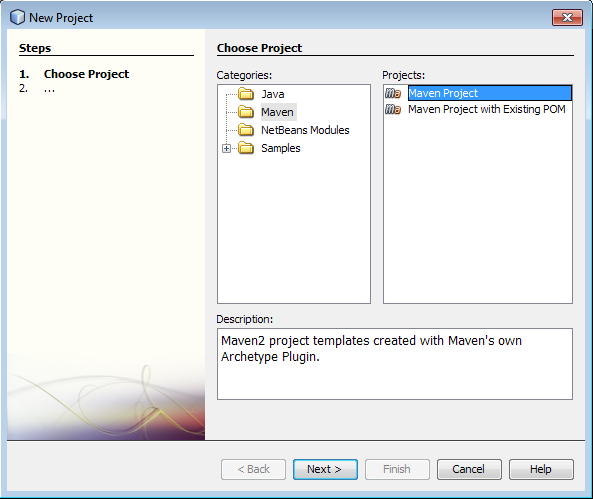
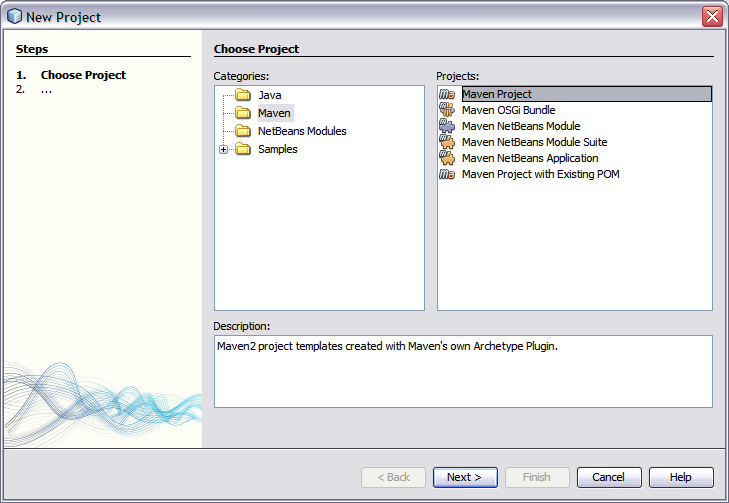
updated netbeans screensnaps
git-svn-id: http://svn.osgeo.org/geotools/trunk@35840 e5c1c795-43da-0310-a71f-fac65c449510

Changed region(s): [[0.0, 0.0, 1.0, 1.0]]

diff --git a/docs/tutorial/quickstart/netbeans.rst b/docs/tutorial/quickstart/netbeans.rst
@@ -92,6 +92,9 @@ The NetBeans IDE is a popular choice for Java development and features excellent
 #. Click through the steps of the installer. You will notice it will pick up on the JDK you
    installed earlier.
 
+   .. image:: images/netbeansInstall.png
+      :scale: 60
+   
 Quickstart
 ==========
 
@@ -116,23 +119,29 @@ Creating the Project
 --------------------
 
 Let's get started:
-#. Start with File > New Project to open the New Project wizard
-#. Select the Maven category; choose Maven Project and press Next.
+
+1. Start with :menuselection:`File --> New Project` to open the **New Project** wizard
+2. Select the Maven category; choose Maven Project and press **Next**.
 
    .. image:: images/nbNewProject.png
-
-#. On the Maven Archetype page select “Maven Quickstart Archetype” and press Next.
+      :scale: 60
+      
+3. On the Maven Archetype page select “Maven Quickstart Archetype” and press Next.
 
    .. image:: images/nbNewProjectArchetype.png
-   
-#. We can now fill in the blanks
+      :scale: 60
+
+4. We can now fill in the blanks
 
    * Project name: tutorial
    * GroupId: org.geotools
 
-#. Click on the Finish button and the new project will be created.
+   .. image:: images/nbNameAndLocation.png
+      :Scale: 60
 
-#. If this is your first time using Maven with NetBeans it will want to confirm that it is okay to
+5. Click on the Finish button and the new project will be created.
+
+6. If this is your first time using Maven with NetBeans it will want to confirm that it is okay to
    use the copy of Maven included with NetBeans (it is also possible to use an external Maven
    executable from within Netbeans which is convenient if, for instance, you want to work with the
    same version of Maven within the IDE and from the command line).
@@ -142,17 +151,13 @@ Adding Jars to Your Project
 
 .. sidebar:: Lab
 
-   We are going to cheat in order to save time; the local maven repository has already been
-   populated with the latest copy of geotools allowing us to run in "offline" mode.
-   
-   To turn on offline mode:
+   Your local maven repository has already been
+   populated with geotools allowing the use of "offline" mode.
    
    #. Open :menuselection:`Windows --> Preferences`
    #. Select :guilabel:`Maven` preference page
    #. Ensure :guilabel:`offline` is checked
-    
-   This setting is useful when wanting to work quickly once everything is downloaded.
-    
+
 The *pom.xml* file is used to describe the care and feeding of your maven project; we are going to
 focus on the dependencies needed for your project 
 
@@ -169,23 +174,23 @@ When downloading jars maven makes use of a "local repository" to store jars.
 When downloading jars maven makes use of public maven repositories on the internet where projects
 such as GeoTools publish their work.
 
-#. The next step is for us to make it a GeoTools project by adding information to Maven's project
+1. The next step is for us to make it a GeoTools project by adding information to Maven's project
    description file (“project object model” in Maven-speak) - pom.xml
    
    In the Projects panel open up the Project Files folder and double click on pom.xml to open it.
    
-#. We are going to start by defining the version number of GeoTools we wish to use. 
+2. We are going to start by defining the version number of GeoTools we wish to use. 
 
    .. literalinclude:: artifacts/pom.xml
         :language: xml
         :start-after: <url>http://maven.apache.org</url>
         :end-before: <dependencies>
   
-  If you make any mistakes when editing the xml file you'll see that your project will be renamed
-  “<Badley formed Maven project>” in the Projects window. You can choose “Format” as a quick way to
-  check if the tags line up. Or just hit undo and try again. 
+   If you make any mistakes when editing the xml file you'll see that your project will be renamed
+   “<Badley formed Maven project>” in the Projects window. You can choose “Format” as a quick way to
+   check if the tags line up. Or just hit undo and try again. 
   
-#. Next we add two GeoTools modules to the dependencies section: gt-shapefile and gt-swing for our
+3. Next we add two GeoTools modules to the dependencies section: gt-shapefile and gt-swing for our
    project.
 
    .. literalinclude:: artifacts/pom.xml
@@ -193,20 +198,20 @@ such as GeoTools publish their work.
         :start-after: </properties>
         :end-before: <repositories>
   
-#. And the repositories where these jars can be downloaded from.
+4. And the repositories where these jars can be downloaded from.
 
    .. literalinclude:: artifacts/pom.xml
         :language: xml
         :start-after: </dependencies>
         :end-before: </project>
     
-#. You can now right click on Libraries in the Projects window, then Download missing Dependencies
+5. You can now right click on Libraries in the Projects window, then Download missing Dependencies
    from the pop-up menu. When downloading it will check the repositories we have listed
    above.
 
-#. We will continue to add dependencies on different parts of the GeoTools library as we work through these exercises; this fine grain control and the ability to download exactly what is needed is one of the advantages of using Maven.
+6. We will continue to add dependencies on different parts of the GeoTools library as we work through these exercises; this fine grain control and the ability to download exactly what is needed is one of the advantages of using Maven.
 
-#. Here is what the completed :file:`pom.xml` looks like:
+7. Here is what the completed :file:`pom.xml` looks like:
 
    .. literalinclude:: artifacts/pom.xml
         :language: xml
@@ -229,21 +234,31 @@ Now that your environment is setup we can put together a simple Quickstart. This
 
 #. Build the application and check that all is well in the Output window.
 
+   .. image:: images/nbQuickstart.png
+      :Scale: 60
+   
+   A fair bit of time will be spent downloading the libraries required.
+
+Running the Application
+------------------------
+
 #. We need to download some sample data to work with. The http://www.naturalearthdata.com/ project
    is a great project supported by the North American Cartographic Information Society.
    
-   * http://www.naturalearthdata.com/http//www.naturalearthdata.com/download/110m/cultural/110m-cultural.zip 
+   * `110m-cultural.zip <http//www.naturalearthdata.com/download/110m/cultural/110m-cultural.zip>`_ 
    
    Please unzip the above data into a location you can find easily such as the desktop.
 
 #. Run the application to open a file chooser. Choose a shapefile from the example dataset.
 
    .. image:: images/QuickstartOpen.jpg
-   
+      :scale: 60
+      
 #. The application will connect to your shapefile, 1.produce a map context and display the shapefile.
 
    .. image:: images/QuickstartMap.jpg
-   
+      :scale: 60
+      
 #. A couple of things to note about the code example:
    
    * The shapefile is not loaded into memory – instead it is read from disk each and every time it is needed
@@ -275,17 +290,16 @@ Here are some additional challenges for you to try:
   
   If you would like to ask GeoTools to cache the shapefile in memory try the following code:
 
-    .. literalinclude:: ../../src/main/java/org/geotools/tutorial/quickstart/QuickstartCache.java
+  .. literalinclude:: ../../src/main/java/org/geotools/tutorial/quickstart/QuickstartCache.java
      :language: java
      :start-after: // docs start cache
      :end-before:  // docs end cache
   
-  * For the above example to compile you will need the following import:
+  For the above example to compile you will need the following import:
     
-    .. code-block:: java
+  .. code-block:: java
 
        import org.geotools.data.CachingFeatureSource;
-  
   
 * Try and sort out what all the different “side car” files are – and what they are for. The sample
   data set includes “shp”, “dbf” and “shx”. How many other side car files are there?
@@ -296,7 +310,7 @@ Here are some additional challenges for you to try:
   things is with a map of connection parameters. This techniques gives us a little more control over
   how we work with a shapefile and also allows us to connect to databases and web feature servers.
 
-    .. literalinclude:: ../../src/main/java/org/geotools/tutorial/quickstart/QuickstartNotes.java
+  .. literalinclude:: ../../src/main/java/org/geotools/tutorial/quickstart/QuickstartNotes.java
      :language: java
      :start-after: // start datastore
      :end-before:  // end datastore
@@ -307,25 +321,23 @@ Here are some additional challenges for you to try:
   
   At the time of writing |version|-SNAPSHOT under active development.
   
-  .. codeblock: java
-  
-   .. literalinclude:: artifacts/pom2.xml
-        :language: xml
-        :start-after: <url>http://maven.apache.org</url>
-        :end-before: <dependencies>
+  .. literalinclude:: artifacts/pom2.xml
+     :language: xml
+     :start-after: <url>http://maven.apache.org</url>
+     :end-before: <dependencies>
     
   You will also need to change your pom.xml file to include the following snapshot repository:
   
-     .. literalinclude:: artifacts/pom2.xml
-        :language: xml
-        :start-after: </dependencies>
-        :end-before: </project>
+  .. literalinclude:: artifacts/pom2.xml
+     :language: xml
+     :start-after: </dependencies>
+     :end-before: </project>
         
 * NetBeans has an interesting feature to show how the dependency system works - Right click on
   Libraries and choose Show Dependency
   
-     .. image:: images/nbGraph.png
-  
+  .. image:: images/nbGraph.png
+   
   We will be making use of some of the project is greater depth in the remaining tutorials.
 
 Maven Alternative
@@ -336,10 +348,11 @@ To start with we will obtain GeoTools from the website:
 
 1. Download the GeoTools binary release from http://sourceforge.net/projects/geotools/files 
 2. Extract the geotools-2.6.0-bin.zip file to C:\java\geotools-2.6.0 folder.
-3. If you open up the folder and have a look you will see GeoTools and all of the other jars that it uses including those from other libraries such as GeoAPI and JTS.
+3. If you open up the folder and have a look you will see GeoTools and all of the other jars that
+   it uses including those from other libraries such as GeoAPI and JTS.
 
-  .. image:: images/gtunzipped.jpg
-  
+   .. image:: images/gtunzipped.jpg
+
 4. We can now set up GeoTools as a library in NetBeans:
 
    From the menu bar choose Tools > Libraries to open the Library Manager.
@@ -350,12 +363,14 @@ To start with we will obtain GeoTools from the website:
 
 7. You can now press the Add JAR/Folder button and add in all the jars from C:\java\GeoTools-|release|
    
-8. GeoTools includes a copy of the “EPSG” map projections database; but also allows you to hook up your own copy of the EPSG database as an option. However, only one copy can be used at a time so we will need to remove the following jars from the Library Manager:
+8. GeoTools includes a copy of the “EPSG” map projections database; but also allows you to hook up
+   your own copy of the EPSG database as an option. However, only one copy can be used at a time
+   so we will need to remove the following jars from the Library Manager:
    
 .. sidebar:: EPSG
 
-  The EPSG databaes is distributed as an Access database and has been converted into the pure java
-  database HSQL for our use.
+   The EPSG databaes is distributed as an Access database and has been converted into the pure java
+   database HSQL for our use.
    
    * gt-epsg-h2
    * gt-epsg-oracle

diff --git a/docs/tutorial/quickstart/eclipse.rst b/docs/tutorial/quickstart/eclipse.rst
@@ -298,7 +298,7 @@ such as GeoTools publish their work.
      fix indentation
 
 8.  If maven has trouble downloading any jar; you can try again by selecting
-    :menuselectino:`Project --> Update All Maven Dependencies`.
+    :menuselection:`Project --> Update All Maven Dependencies`.
     
     If it really cannot connect you will need to switch to |release|-SNAPSHOT and add the following
     snap shot repository.
